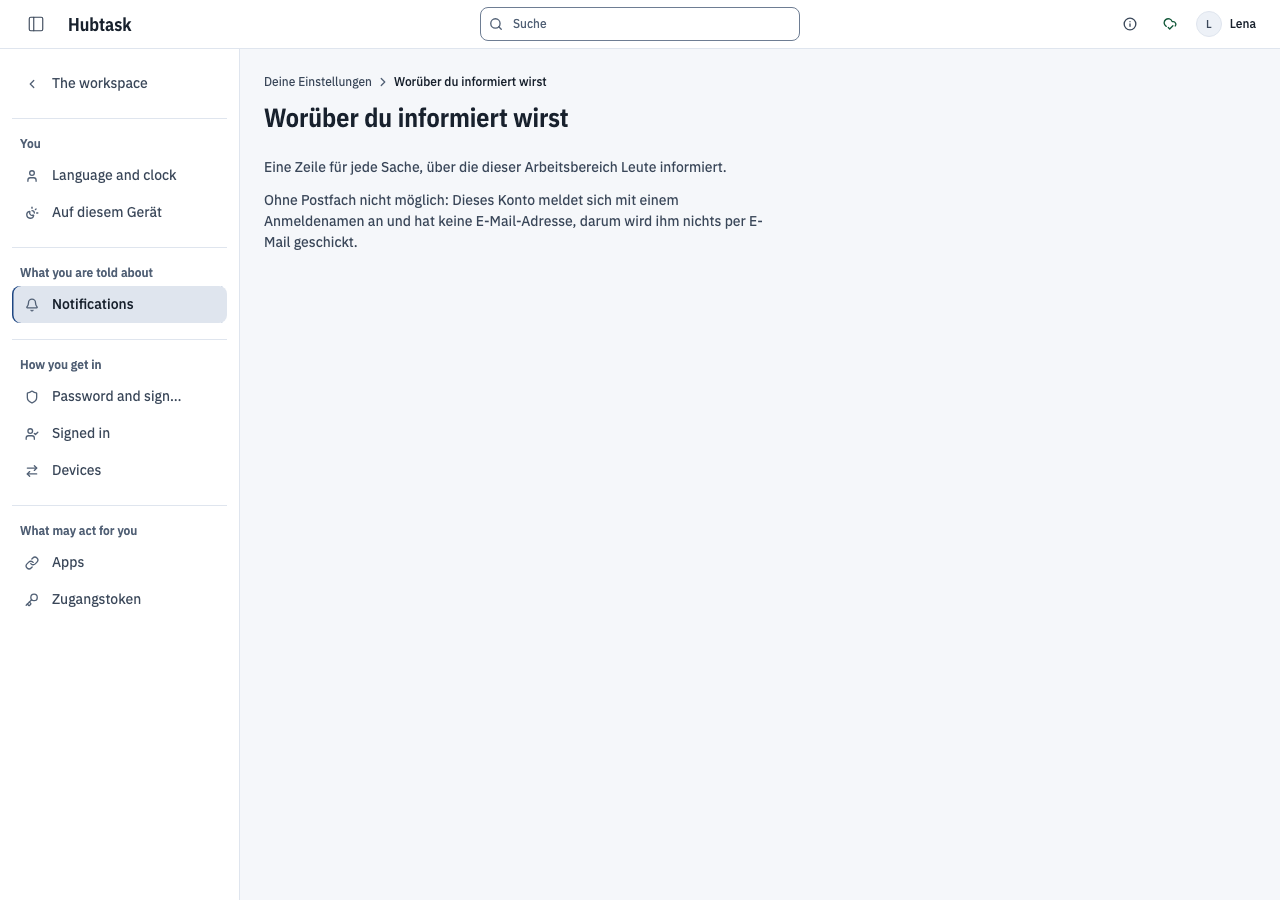
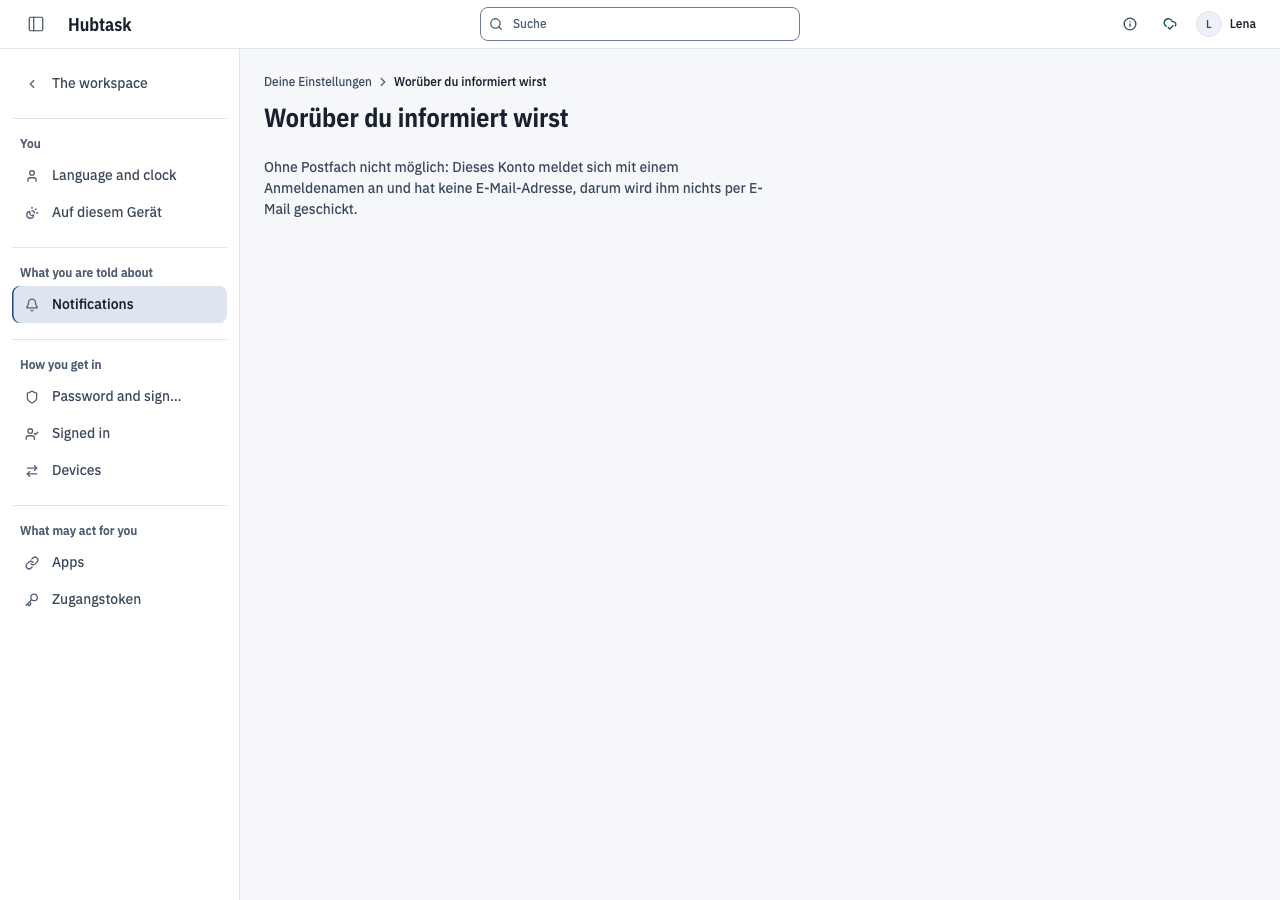
docs(evidence): steps 4, 6, 7 and 10 retaken with the change step's line and the notifications lead
Task: PH-06

Changed region(s): [[0.1875, 0.1556, 0.5938, 0.28]]

diff --git a/docs/evidence/PH-06-2026-10-11.md b/docs/evidence/PH-06-2026-10-11.md
@@ -22,8 +22,8 @@ languages.
 | 3 | `*-3-sign-in-settings.png` | *Sign-in* settings: *Accounts without a mail address allowed*, on, "Hubtask's default" beside it (check 8) |
 | 4 | `*-4-card.png` | Signed out, the page loaded afresh: the card's first field reads "Email address or sign-in name" / "E-Mail-Adresse oder Anmeldename", because the workspace now has a managed account (check 4). Retaken, see below |
 | 5 | `*-5-forgot.png` | *Forgot your password?*: the one sentence for everybody that a sign-in name has no mail (check 6) |
-| 6 | `*-6-change-step.png` | The sign-in name typed in capitals and the start password read off step 2: step 2 of 2, "Signing in as LENA" / "Anmeldung als OMA.ERIKA", and the card asks for a password of one's own (check 3). The step has no address field; its rule lines still say "your email address" to a person without one. Retaken, see below |
-| 7 | `*-7-notifications.png` | Signed in as the child, after choosing a password: *Notifications* says mail is not possible without a mailbox, with no table of switches (check 6) |
+| 6 | `*-6-change-step.png` | The sign-in name typed in capitals and the start password read off step 2: step 2 of 2, "Signing in as LENA" / "Anmeldung als OMA.ERIKA", and the card asks for a password of one's own (check 3). The step has no address field; the rule line names what is compared: "Not containing your sign-in name, your name or the workspace name" / "Enthält nicht deinen Anmeldenamen, deinen Namen oder den Namen des Arbeitsbereichs". Retaken, see below |
+| 7 | `*-7-notifications.png` | Signed in as the child, after choosing a password: *Notifications* says mail is not possible without a mailbox, with no table of switches and no lead about rows (check 6). Retaken, see below |
 
 ## What was pressed
 
@@ -48,6 +48,11 @@ in as the managed person; `GET /accounts/me` answered the folded sign-in name an
   untrue for a start password: it now asks for a password of one's own.
 - The German texts said "Workspace" where the product says "Arbeitsbereich".
 
+- The change step's line told a person without an address that the password may not contain
+  "your email address"; the server compares the sign-in name. The line now says so, for a person
+  who signed in with a name only.
+- The notifications page of a person without a mailbox began "One row for each thing this
+  workspace tells people about." above no rows. That lead is now left out where no table is drawn.
 - The first pictures of step 4 showed the card reading "Email address" / "E-Mail-Adresse", and the
   text here claimed the combined label - the pictures were right. The card drew its first field
   from the default before `/auth/sign-in-rules` had answered (the host beside "to" still lacked
@@ -56,14 +61,18 @@ in as the managed person; `GET /accounts/me` answered the folded sign-in name an
   `sign_in_names: true` at the host once the account existed. The card now draws its ways in only
   once the rules have answered, failed, or are not served.
 
-## The retake of steps 4 and 6
+## The retakes of steps 4, 6, 7 and 10
 
-**When:** 2026-10-11 · **Commit:** `e2906f6a` (same branch) · **Kind:** using - the server built
-from that commit with the web app embedded, its own PostgreSQL 16 (pgvector) migrated to 0127, a
-workspace `home` made by `scripts/dev-workspace.sh`, the same walk script as above, at port 18496
-(hence the host in steps 4 and 6 differs from the others). The four pictures `en-4`, `en-6`,
-`de-4`, `de-6` were replaced; the others are the first walk's. The walk waited for the field to
-exist and nothing more.
+**When:** 2026-10-11 · **Commit:** `c183d545` (same branch) · **Kind:** using - the server built
+from that commit with the web app embedded, its own PostgreSQL 16 (pgvector) migrated to 0127, at
+port 18496 (hence the host differs from the other pictures). Steps 4, 6 and 7: the first walk's
+script in a workspace `home` made by `scripts/dev-workspace.sh`, waiting for the card's field to
+exist and nothing more. Step 10: a second workspace `fam`, set up as the second walk below
+describes (the provider written with SQL, the password switched off by the owner through
+`PATCH /tenant` behind a step-up), hence `fam.localhost` in its picture. The pictures `en-4`,
+`en-6`, `en-7`, `en-10` and their `de-` twins were replaced; the others are the first walks'.
+In German the frame around step 7 still shows the settings menu partly in English, as it did in
+the first walk - its keys are missing from the German catalogue.
 
 ## What was not walked
 
@@ -90,7 +99,7 @@ step-up; `/auth/sign-in-rules` answered `methods: [OIDC]`, `sign_in_names: true`
 |---|---|---|
 | 8 | `*-8-card-password-off.png` | The card: the provider's button, the mail link, "or", and a *Sign-in name* / *Anmeldename* form with the hint that it is for people without an address |
 | 9 | `*-9-address-refused.png` | The owner's address and right password typed into that form: the workspace's refusal, "does not sign in with a password" - an address keeps no password here |
-| 10 | `*-10-change-step-password-off.png` | The sign-in name in capitals with its start password: the change step, under the workspace's rule; choosing a password signed the person in (`Lena`, `Oma Erika` at the top right) |
+| 10 | `*-10-change-step-password-off.png` | The sign-in name in capitals with its start password: the change step, under the workspace's rule, its line naming the sign-in name as in step 6; choosing a password then signed the person in. Retaken, see below |
 
 No script error on any screen.
 
